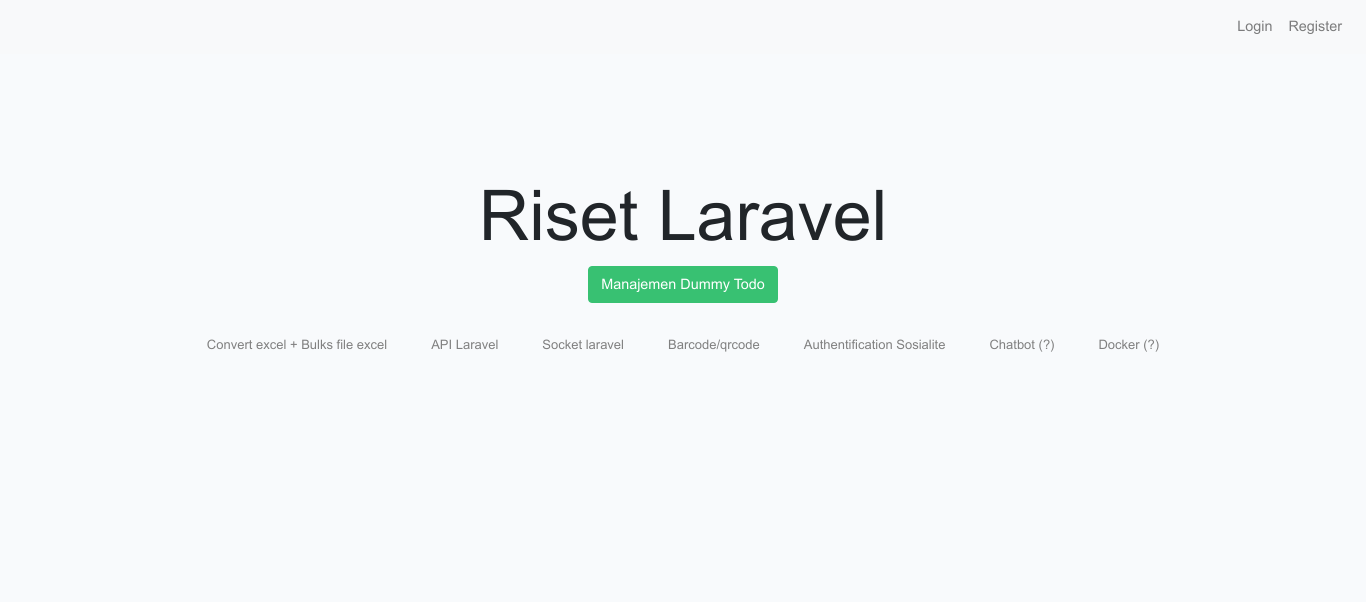
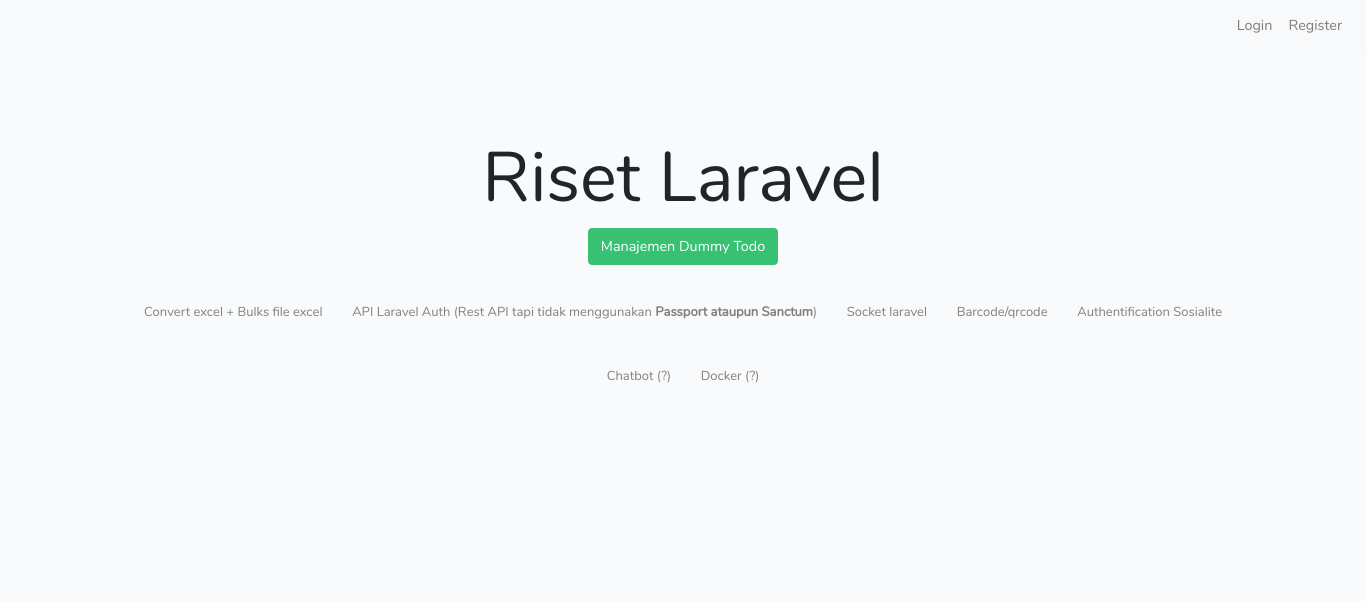
add folder and file in api-test

diff --git a/resources/views/api-test/index.blade.php b/resources/views/api-test/index.blade.php
@@ -77,8 +77,9 @@
    <img src="{{ asset('img/api-data/header postman.png') }}" width="100%">
 
    <p>
-      3. 
+      3. Ketika sudah maka akses route yang terdapat data, pada contoh ini saya mengakses route <b>localhost::8000/api/todos</b>
    </p>
+   <img src="{{ asset('img/api-data/get request.png') }}" width="100%">
 
 
    <pre>

diff --git a/README.md b/README.md
@@ -11,7 +11,7 @@
 ## List Riset
 
 - Convert excel + Bulks file excel [X]
-- API Laravel [ ]
+- API Laravel Auth (Rest API tapi tidak menggunakan <b>Passport ataupun Sanctum</b>) [ X ]
 - Socket laravel [ ]
 - Barcode/qrcode [ ]
 - Authentification Sosialite [ ]
@@ -38,6 +38,18 @@
   - membuat folder `Imports` untuk menampung file untuk kebutuhan `Import excel` dan menambahkan file class kedalam folder tersebut sesuai kebutuhan
   - Mengatur controller untuk memanggil fungsi didalam `Imports` untuk mengatur import excel [ dapat dilihat pada : `BulkExcelController@importFileExcel`]
   - Mengatur `route` dan `view` untuk import
+
+
+- API Laravel Auth (Rest API tapi tidak menggunakan <b>Passport ataupun Sanctum</b>)
+  - Jika ingin login, maka mengakses route API login pada body request tersebut
+    <img src="./body postman.png" width="100%">
+  
+  - Setelah selesai, maka mengambil data <b>TOKEN</b> pada tabel <b>users</b>, deengan memasukan <b>authorization Bearer <`TOKEN`></b>. Jangan lupa arahkan ke route yang merupakan <b>Middleware</b> / ['middleware' => 'auth:api']
+    <img src="./header postman.png" width="100%">
+
+  - Ketika sudah maka akses route yang terdapat data, pada contoh ini saya mengakses route <b>localhost::8000/api/todos</b>
+    <img src="./get request.png" width="100%">
+
 
 # Refrensi
   - Laravel API
